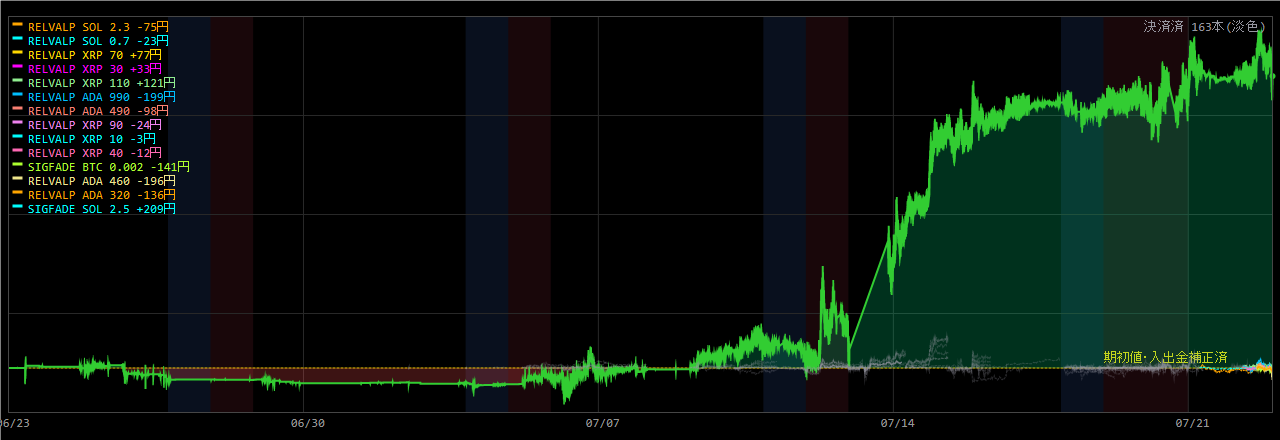
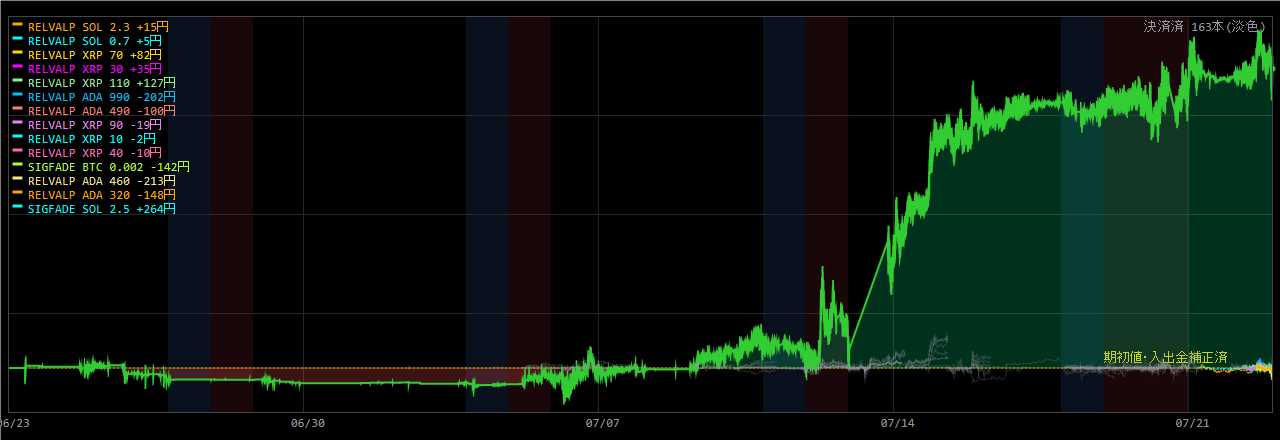
Coin100S 運用状況更新 07-22 23:35

diff --git a/coin100s-795hc4jfv8/index.html b/coin100s-795hc4jfv8/index.html
@@ -14,16 +14,16 @@ a{color:#60a5fa;text-decoration:none} a:hover{text-decoration:underline}
 .meta{color:#94a3b8;font-size:13px}</style>
 <script>setTimeout(function(){location.replace(location.pathname+"?t="+Date.now());},300000);</script></head><body>
 <h1>Coin100S ダッシュボード</h1>
-<p class="meta">スナップショット: 2026-07-22 23:29:05(自動リロード・最新化)</p>
+<p class="meta">スナップショット: 2026-07-22 23:35:05(自動リロード・最新化)</p>
 <div class="cards">
 <div class="card">建玉数<div class="v">14</div></div>
 <div class="card">本日損益<div class="v pos">+463円</div></div>
-<div class="card">評価損益<div class="v pos">+54円</div></div>
+<div class="card">評価損益<div class="v pos">+5円</div></div>
 </div>
 <h2>現在の建玉</h2>
-<table><tr><th>銘柄</th><th>側</th><th>数量</th><th>建値</th><th>含損益</th><th>レッグ</th></tr><tr><td>ADA_JPY</td><td>SELL</td><td>320</td><td>@28</td><td>-120円</td><td>RELVALP_SL700</td></tr><tr><td>ADA_JPY</td><td>SELL</td><td>460</td><td>@28</td><td>-172円</td><td>RELVALP_SELL</td></tr><tr><td>ADA_JPY</td><td>SELL</td><td>490</td><td>@28</td><td>-55円</td><td>RELVALP_SL700</td></tr><tr><td>ADA_JPY</td><td>SELL</td><td>990</td><td>@28</td><td>-111円</td><td>RELVALP_SELL</td></tr><tr><td>BTC_JPY</td><td>BUY</td><td>0.002</td><td>@10,785,228</td><td>-172円</td><td>SIGFADE_BTC</td></tr><tr><td>SOL_JPY</td><td>SELL</td><td>2.5</td><td>@12,763</td><td>+282円</td><td>SIGFADE_SOL</td></tr><tr><td>SOL_JPY</td><td>SELL</td><td>0.7</td><td>@12,663</td><td>+9円</td><td>RELVALP_SL700</td></tr><tr><td>SOL_JPY</td><td>SELL</td><td>2.3</td><td>@12,663</td><td>+29円</td><td>RELVALP_SELL</td></tr><tr><td>XRP_JPY</td><td>SELL</td><td>40</td><td>@186</td><td>+8円</td><td>RELVALP_SL700</td></tr><tr><td>XRP_JPY</td><td>SELL</td><td>10</td><td>@186</td><td>+2円</td><td>RELVALP_SELL</td></tr><tr><td>XRP_JPY</td><td>SELL</td><td>90</td><td>@186</td><td>+22円</td><td>RELVALP_SELL</td></tr><tr><td>XRP_JPY</td><td>SELL</td><td>110</td><td>@187</td><td>+177円</td><td>RELVALP_SELL</td></tr><tr><td>XRP_JPY</td><td>SELL</td><td>30</td><td>@187</td><td>+48円</td><td>RELVALP_SELL</td></tr><tr><td>XRP_JPY</td><td>SELL</td><td>70</td><td>@187</td><td>+113円</td><td>RELVALP_SL700</td></tr></table>
+<table><tr><th>銘柄</th><th>側</th><th>数量</th><th>建値</th><th>含損益</th><th>レッグ</th></tr><tr><td>ADA_JPY</td><td>SELL</td><td>320</td><td>@28</td><td>-111円</td><td>RELVALP_SL700</td></tr><tr><td>ADA_JPY</td><td>SELL</td><td>460</td><td>@28</td><td>-160円</td><td>RELVALP_SELL</td></tr><tr><td>ADA_JPY</td><td>SELL</td><td>490</td><td>@28</td><td>-43円</td><td>RELVALP_SL700</td></tr><tr><td>ADA_JPY</td><td>SELL</td><td>990</td><td>@28</td><td>-86円</td><td>RELVALP_SELL</td></tr><tr><td>BTC_JPY</td><td>BUY</td><td>0.002</td><td>@10,785,228</td><td>-151円</td><td>SIGFADE_BTC</td></tr><tr><td>SOL_JPY</td><td>SELL</td><td>2.5</td><td>@12,763</td><td>+285円</td><td>SIGFADE_SOL</td></tr><tr><td>SOL_JPY</td><td>SELL</td><td>0.7</td><td>@12,663</td><td>+9円</td><td>RELVALP_SL700</td></tr><tr><td>SOL_JPY</td><td>SELL</td><td>2.3</td><td>@12,663</td><td>+32円</td><td>RELVALP_SELL</td></tr><tr><td>XRP_JPY</td><td>SELL</td><td>40</td><td>@186</td><td>-3円</td><td>RELVALP_SL700</td></tr><tr><td>XRP_JPY</td><td>SELL</td><td>10</td><td>@186</td><td>-1円</td><td>RELVALP_SELL</td></tr><tr><td>XRP_JPY</td><td>SELL</td><td>90</td><td>@186</td><td>-4円</td><td>RELVALP_SELL</td></tr><tr><td>XRP_JPY</td><td>SELL</td><td>110</td><td>@187</td><td>+146円</td><td>RELVALP_SELL</td></tr><tr><td>XRP_JPY</td><td>SELL</td><td>30</td><td>@187</td><td>+40円</td><td>RELVALP_SELL</td></tr><tr><td>XRP_JPY</td><td>SELL</td><td>70</td><td>@187</td><td>+93円</td><td>RELVALP_SL700</td></tr></table>
 <p><a href="status.html"><b>▶ 運用状況の詳細(チャート・本日の取引・レジーム)</b></a></p>
 <h2>日報一覧</h2>
 <table><tr><th>取引日</th><th>実現損益</th><th>総括</th></tr><tr><td><a href='reports/20260721_Coin100S日報.html'>2026-07-21</a></td><td class="pos">+0円</td><td class='meta'>実取引: 新規4件/決済13件、実現損益 +0円。⚠警告/エラー 13件（要確認）。</td></tr><tr><td><a href='reports/20260720_Coin100S日報.html'>2026-07-20</a></td><td class="pos">+0円</td><td class='meta'>実取引: 新規8件/決済21件、実現損益 +0円。シグナル却下8件（最多: BW10M3_5M／トレンド方向ゲート(N分傾き上と不一致=逆張り方向のfade禁止)）。⚠警告/エラー 13件（要確認）。</td></tr><tr><td><a href='reports/20260719_Coin100S日報.html'>2026-07-19</a></td><td class="pos">+0円</td><td class='meta'>実取引: 新規10件/決済7件、実現損益 +0円。⚠警告/エラー 3件（要確認）。</td></tr><tr><td><a href='reports/20260718_Coin100S日報.html'>2026-07-18</a></td><td class="pos">+0円</td><td class='meta'>実取引: 新規9件/決済8件、実現損益 +0円。警告/孤児/エラーなし＝健全。</td></tr><tr><td><a href='reports/20260717_Coin100S日報.html'>2026-07-17</a></td><td class="pos">+0円</td><td class='meta'>実取引: 新規3件/決済2件、実現損益 +0円。シグナル却下1件（最多: BW10M3_5M／トレンド方向ゲート(N分傾き下と不一致=逆張り方向のfade禁止)）。⚠警告/エラー 2件（要確認）。</td></tr><tr><td><a href='reports/20260716_Coin100S日報.html'>2026-07-16</a></td><td class="pos">+0円</td><td class='meta'>実取引: 新規0件/決済5件、実現損益 +0円。⚠警告/エラー 7件（要確認）。</td></tr><tr><td><a href='reports/20260715_Coin100S日報.html'>2026-07-15</a></td><td class="pos">+0円</td><td class='meta'>実取引: 新規6件/決済5件、実現損益 +0円。シグナル却下6件（最多: BW10M3_5M／トレンド方向ゲート(N分傾き上と不一致=逆張り方向のfade禁止)）。⚠警告/エラー 7件（要確認）。</td></tr><tr><td><a href='reports/20260714_Coin100S日報.html'>2026-07-14</a></td><td class="pos">+0円</td><td class='meta'>実取引: 新規6件/決済18件、実現損益 +0円。シグナル却下5件（最多: BW10M3_5M／トレンド方向ゲート(N分傾き上と不一致=逆張り方向のfade禁止)）。⚠警告/エラー 9件（要確認）。</td></tr><tr><td><a href='reports/20260713_Coin100S日報.html'>2026-07-13</a></td><td class="pos">+0円</td><td class='meta'>実取引: 新規5件/決済8件、実現損益 +0円。シグナル却下1件（最多: BW10M3_5M／トレンド方向ゲート(N分傾き上と不一致=逆張り方向のfade禁止)）。警告/孤児/エラーなし＝健全。</td></tr><tr><td><a href='reports/20260712_Coin100S日報.html'>2026-07-12</a></td><td class="pos">+0円</td><td class='meta'>実取引: 新規14件/決済6件、実現損益 +0円。シグナル却下5件（最多: BW10M3_5M／トレンド方向ゲート(N分傾き下と不一致=逆張り方向のfade禁止)）。⚠警告/エラー 2件（要確認）。</td></tr><tr><td><a href='reports/20260711_Coin100S日報.html'>2026-07-11</a></td><td class="pos">+0円</td><td class='meta'>実取引: 新規7件/決済6件、実現損益 +0円。⚠警告/エラー 52件（要確認）。</td></tr><tr><td><a href='reports/20260710_Coin100S日報.html'>2026-07-10</a></td><td class="pos">+0円</td><td class='meta'>実取引: 新規7件/決済6件、実現損益 +0円。シグナル却下6件（最多: BW10M3_5M／トレンド方向ゲート(N分傾き上と不一致=逆張り方向のfade禁止)）。警告/孤児/エラーなし＝健全。</td></tr><tr><td><a href='reports/20260709_Coin100S日報.html'>2026-07-09</a></td><td class="pos">+0円</td><td class='meta'>実取引: 新規8件/決済3件、実現損益 +0円。シグナル却下5件（最多: SD120M_5M／トレンド方向ゲート(N分傾き上と不一致=逆張り方向のfade禁止)）。警告/孤児/エラーなし＝健全。</td></tr><tr><td><a href='reports/20260708_Coin100S日報.html'>2026-07-08</a></td><td class="pos">+0円</td><td class='meta'>実取引: 新規2件/決済4件、実現損益 +0円。シグナル却下4件（最多: SD120M_5M／トレンド方向ゲート(N分傾き下と不一致=逆張り方向のfade禁止)）。警告/孤児/エラーなし＝健全。</td></tr><tr><td><a href='reports/20260707_Coin100S日報.html'>2026-07-07</a></td><td class="pos">+0円</td><td class='meta'>実取引: 新規8件/決済6件、実現損益 +0円。シグナル却下4件（最多: SD120M_5M／トレンド方向ゲート(N分傾き上と不一致=逆張り方向のfade禁止)）。⚠警告/エラー 258件（要確認）。</td></tr><tr><td><a href='reports/20260706_Coin100S日報.html'>2026-07-06</a></td><td class="pos">+0円</td><td class='meta'>実取引: 新規9件/決済6件、実現損益 +0円。シグナル却下9件（最多: SD120M_5M／トレンド方向ゲート(N分傾き上と不一致=逆張り方向のfade禁止)）。⚠警告/エラー 150件（要確認）。</td></tr><tr><td><a href='reports/20260705_Coin100S日報.html'>2026-07-05</a></td><td class="pos">+0円</td><td class='meta'>実取引: 新規8件/決済3件、実現損益 +0円。⚠警告/エラー 2件（要確認）。</td></tr><tr><td><a href='reports/20260704_Coin100S日報.html'>2026-07-04</a></td><td class="pos">+0円</td><td class='meta'>実取引: 新規1件/決済2件、実現損益 +0円。⚠警告/エラー 2件（要確認）。</td></tr><tr><td><a href='reports/20260703_Coin100S日報.html'>2026-07-03</a></td><td class="pos">+0円</td><td class='meta'>実取引: 新規5件/決済4件、実現損益 +0円。⚠警告/エラー 15件（要確認）。</td></tr><tr><td><a href='reports/20260702_Coin100S日報.html'>2026-07-02</a></td><td class="pos">+0円</td><td class='meta'>実取引: 新規7件/決済5件、実現損益 +0円。シグナル却下17件（最多: SD120M_5M／トレンド方向ゲート(N分傾き上と不一致=逆張り方向のfade禁止)）。⚠警告/エラー 26件（要確認）。</td></tr><tr><td><a href='reports/20260701_Coin100S日報.html'>2026-07-01</a></td><td class="pos">+0円</td><td class='meta'>実取引: 新規14件/決済8件、実現損益 +0円。シグナル却下14件（最多: SD120M_5M／ボラ軸ゲート(SDN%&amp;gt;N%=高ボラ/荒れレンジ)）。⚠警告/エラー 2件（要確認）。</td></tr><tr><td><a href='reports/20260630_Coin100S日報.html'>2026-06-30</a></td><td class="pos">+0円</td><td class='meta'>実取引: 新規0件/決済1件、実現損益 +0円。シグナル却下29件（最多: 微5M／当日枠N）。警告/孤児/エラーなし＝健全。</td></tr></table>
-<hr><p class="meta">更新: 2026-07-22 23:29:06 / 自動生成: tools/web_publish.py(§580)</p>
+<hr><p class="meta">更新: 2026-07-22 23:35:08 / 自動生成: tools/web_publish.py(§580)</p>
 </body></html>

diff --git a/coin100s-795hc4jfv8/status.html b/coin100s-795hc4jfv8/status.html
@@ -14,22 +14,22 @@ a{color:#60a5fa;text-decoration:none} a:hover{text-decoration:underline}
 .meta{color:#94a3b8;font-size:13px}</style>
 <script>setTimeout(function(){location.replace(location.pathname+"?t="+Date.now());},300000);</script></head><body>
 <h1>Coin100S 運用状況</h1>
-<p class="meta">スナップショット: 2026-07-22 23:28:35 / ページ生成: 2026-07-22 23:29:06(自動リロード・最新化) / <a href="index.html">目次へ</a></p>
+<p class="meta">スナップショット: 2026-07-22 23:34:35 / ページ生成: 2026-07-22 23:35:08(自動リロード・最新化) / <a href="index.html">目次へ</a></p>
 <div class="cards">
 <div class="card">建玉数<div class="v">14</div></div>
 <div class="card">本日損益<div class="v pos">+463円</div></div>
-<div class="card">評価損益<div class="v neg">-121円</div></div>
+<div class="card">評価損益<div class="v pos">+13円</div></div>
 </div>
 <h2>資産推移(直近30日)</h2>
-<img src="status_equity.png?t=2329" alt="equity">
+<img src="status_equity.png?t=2335" alt="equity">
 <h2>取引チャート(直近24h)</h2>
-<img src="status_chart.png?t=2329" alt="chart">
+<img src="status_chart.png?t=2335" alt="chart">
 <h2>建玉一覧</h2>
-<table><tr><th>銘柄</th><th>側</th><th>数量</th><th>建値</th><th>含損益</th><th>レッグ</th></tr><tr><td>ADA_JPY</td><td>SELL</td><td>320</td><td>@28</td><td>-129円</td><td>RELVALP_SL700</td></tr><tr><td>ADA_JPY</td><td>SELL</td><td>460</td><td>@28</td><td>-185円</td><td>RELVALP_SELL</td></tr><tr><td>ADA_JPY</td><td>SELL</td><td>490</td><td>@28</td><td>-70円</td><td>RELVALP_SL700</td></tr><tr><td>ADA_JPY</td><td>SELL</td><td>990</td><td>@28</td><td>-141円</td><td>RELVALP_SELL</td></tr><tr><td>BTC_JPY</td><td>BUY</td><td>0.002</td><td>@10,785,228</td><td>-160円</td><td>SIGFADE_BTC</td></tr><tr><td>SOL_JPY</td><td>SELL</td><td>2.5</td><td>@12,763</td><td>+282円</td><td>SIGFADE_SOL</td></tr><tr><td>SOL_JPY</td><td>SELL</td><td>0.7</td><td>@12,663</td><td>+9円</td><td>RELVALP_SL700</td></tr><tr><td>SOL_JPY</td><td>SELL</td><td>2.3</td><td>@12,663</td><td>+29円</td><td>RELVALP_SELL</td></tr><tr><td>XRP_JPY</td><td>SELL</td><td>40</td><td>@186</td><td>-7円</td><td>RELVALP_SL700</td></tr><tr><td>XRP_JPY</td><td>SELL</td><td>10</td><td>@186</td><td>-2円</td><td>RELVALP_SELL</td></tr><tr><td>XRP_JPY</td><td>SELL</td><td>90</td><td>@186</td><td>-12円</td><td>RELVALP_SELL</td></tr><tr><td>XRP_JPY</td><td>SELL</td><td>110</td><td>@187</td><td>+136円</td><td>RELVALP_SELL</td></tr><tr><td>XRP_JPY</td><td>SELL</td><td>30</td><td>@187</td><td>+37円</td><td>RELVALP_SELL</td></tr><tr><td>XRP_JPY</td><td>SELL</td><td>70</td><td>@187</td><td>+87円</td><td>RELVALP_SL700</td></tr></table>
+<table><tr><th>銘柄</th><th>側</th><th>数量</th><th>建値</th><th>含損益</th><th>レッグ</th></tr><tr><td>ADA_JPY</td><td>SELL</td><td>320</td><td>@28</td><td>-111円</td><td>RELVALP_SL700</td></tr><tr><td>ADA_JPY</td><td>SELL</td><td>460</td><td>@28</td><td>-160円</td><td>RELVALP_SELL</td></tr><tr><td>ADA_JPY</td><td>SELL</td><td>490</td><td>@28</td><td>-43円</td><td>RELVALP_SL700</td></tr><tr><td>ADA_JPY</td><td>SELL</td><td>990</td><td>@28</td><td>-86円</td><td>RELVALP_SELL</td></tr><tr><td>BTC_JPY</td><td>BUY</td><td>0.002</td><td>@10,785,228</td><td>-145円</td><td>SIGFADE_BTC</td></tr><tr><td>SOL_JPY</td><td>SELL</td><td>2.5</td><td>@12,763</td><td>+285円</td><td>SIGFADE_SOL</td></tr><tr><td>SOL_JPY</td><td>SELL</td><td>0.7</td><td>@12,663</td><td>+9円</td><td>RELVALP_SL700</td></tr><tr><td>SOL_JPY</td><td>SELL</td><td>2.3</td><td>@12,663</td><td>+32円</td><td>RELVALP_SELL</td></tr><tr><td>XRP_JPY</td><td>SELL</td><td>40</td><td>@186</td><td>-8円</td><td>RELVALP_SL700</td></tr><tr><td>XRP_JPY</td><td>SELL</td><td>10</td><td>@186</td><td>-2円</td><td>RELVALP_SELL</td></tr><tr><td>XRP_JPY</td><td>SELL</td><td>90</td><td>@186</td><td>-14円</td><td>RELVALP_SELL</td></tr><tr><td>XRP_JPY</td><td>SELL</td><td>110</td><td>@187</td><td>+133円</td><td>RELVALP_SELL</td></tr><tr><td>XRP_JPY</td><td>SELL</td><td>30</td><td>@187</td><td>+36円</td><td>RELVALP_SELL</td></tr><tr><td>XRP_JPY</td><td>SELL</td><td>70</td><td>@187</td><td>+85円</td><td>RELVALP_SL700</td></tr></table>
 <h2>実現決済履歴(直近15件・OrderId単位)</h2>
 <table><tr><th>決済時刻</th><th>レッグ</th><th>銘柄</th><th>実現損益</th></tr><tr><td>07-22 09:08</td><td>SIGFADE_SOL</td><td>SOL</td><td class="pos">+220円</td></tr><tr><td>07-22 09:08</td><td>SIGFADE_ETH</td><td>ETH</td><td class="pos">+243円</td></tr><tr><td>07-21 08:07</td><td>TENKI5D_REV_DOGE</td><td>DOGE</td><td class="neg">-210円</td></tr><tr><td>07-21 06:11</td><td>TENKI5D_REV_ETH</td><td>ETH</td><td class="pos">+622円</td></tr><tr><td>07-21 06:11</td><td>TENKI5D_REV_ETH</td><td>ETH</td><td class="pos">+124円</td></tr><tr><td>07-21 06:09</td><td>TENKI5D_REV_SOL</td><td>SOL</td><td class="pos">+287円</td></tr><tr><td>07-21 06:09</td><td>TENKI5D_REV_SOL</td><td>SOL</td><td class="pos">+454円</td></tr><tr><td>07-21 06:09</td><td>TENKI5D_REV_BTC</td><td>BTC</td><td class="pos">+649円</td></tr><tr><td>07-21 06:08</td><td>RELVALP_SELL</td><td>LTC</td><td class="neg">-267円</td></tr><tr><td>07-21 06:08</td><td>RELVALP_SL700</td><td>LTC</td><td class="neg">-90円</td></tr><tr><td>07-20 23:29</td><td>BW10M3_5M</td><td>BTC</td><td class="neg">-45円</td></tr><tr><td>07-20 10:58</td><td>BW10M3_5M</td><td>BTC</td><td class="pos">+7円</td></tr><tr><td>07-20 09:56</td><td>BW10M3_5M</td><td>BTC</td><td class="neg">-6円</td></tr><tr><td>07-20 09:11</td><td>SIGFADE_ETH</td><td>ETH</td><td class="pos">+370円</td></tr><tr><td>07-20 08:45</td><td>SIGFADE_SOL</td><td>SOL</td><td class="pos">+380円</td></tr></table>
 <!-- §799c 「本取引日の実取引(6:00起点)」テーブルは公開ページから削除(ユーザー指示2026-07-15・数量/指値まで晒す情報漏れ)。建玉/実現損益は許可・実発注の生取引明細は非公開 -->
 <h2>現在レジーム(3軸・§570c)</h2>
-<ul><li>アルト対BTC 5日: <b>-85bps</b>(アルト劣後=RELVAL順風)</li><li>BTC ER240m: <b>0.068</b>(閾値0.25→レンジ(fade順風/BWTRD逆風))</li><li>BTC実現ボラ240m: <b>4.97</b> bps/分</li></ul>
+<ul><li>アルト対BTC 5日: <b>-85bps</b>(アルト劣後=RELVAL順風)</li><li>BTC ER240m: <b>0.044</b>(閾値0.25→レンジ(fade順風/BWTRD逆風))</li><li>BTC実現ボラ240m: <b>5.01</b> bps/分</li></ul>
 <hr><p class="meta">自動生成: tools/web_publish.py(§580・読み取り専用)。売買判断はアプリ本体。</p>
 </body></html>
